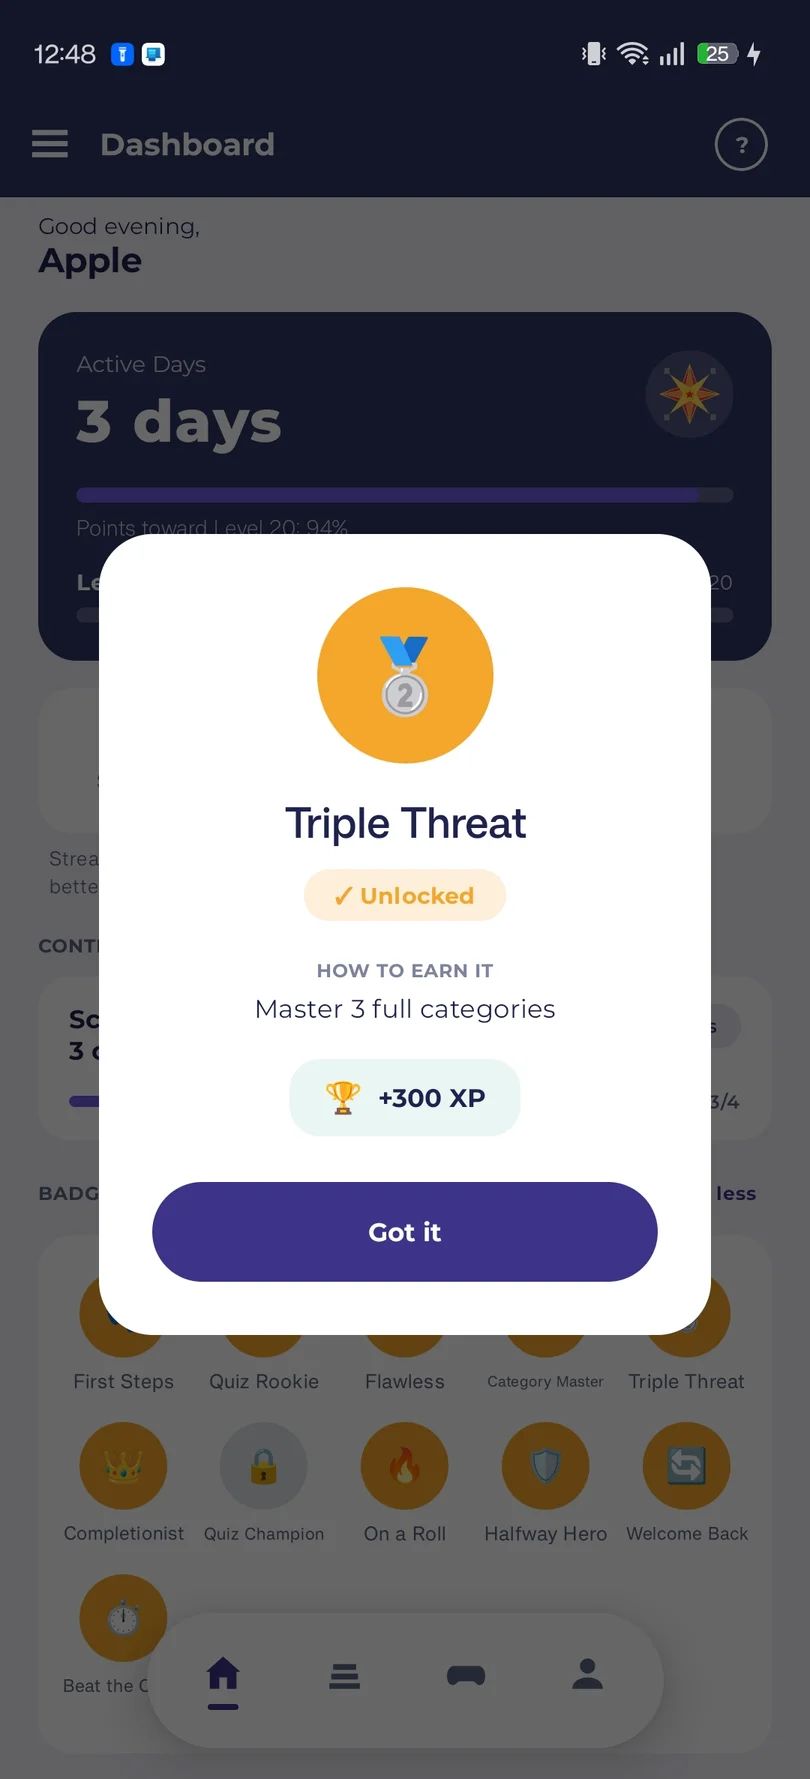
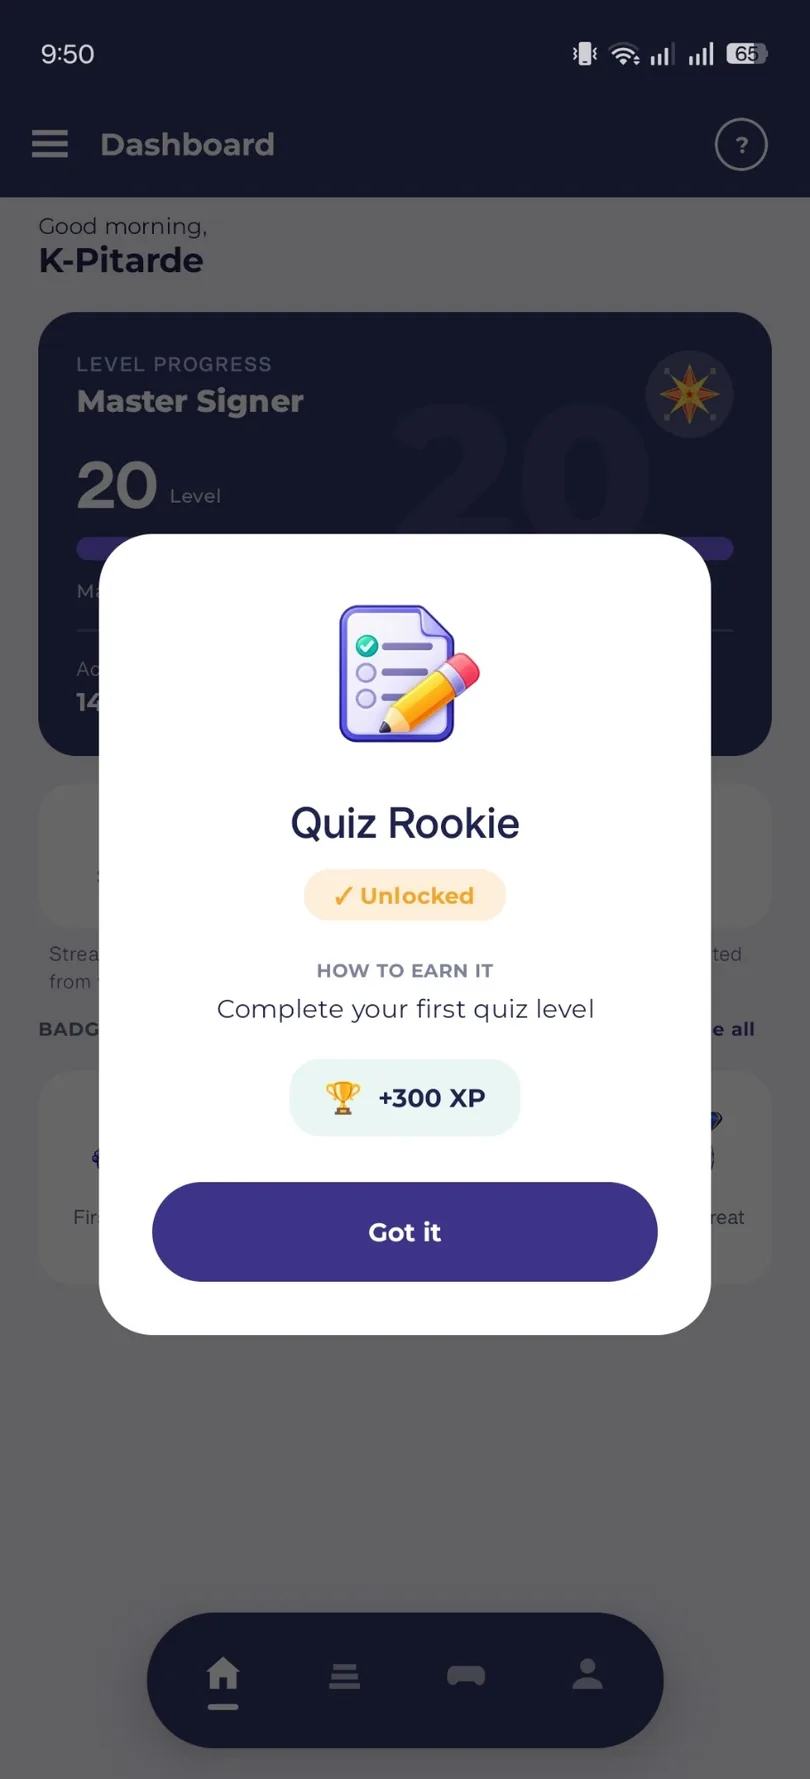
New app screenshots; KinetixFSL with no space everywhere
Dashboard, Modules, Game progress, Earn badges and Community screenshots from the current app. The header and footer name, the link preview picture (and its button, now Download) and the docs drop the space.

diff --git a/index.html b/index.html
@@ -71,7 +71,7 @@
       <div class="container nav-wrap">
         <a class="brand" href="#" aria-label="KinetixFSL home"
           ><img src="assets/logo.svg" width="48" height="48" alt="" /><span
-            >Kinetix<span class="brand-fsl"> FSL</span></span
+            >Kinetix<span class="brand-fsl">FSL</span></span
           ></a
         >
         <button
@@ -244,7 +244,7 @@
                 <circle cx="12" cy="20" r="1" /></svg
               ><span>A little practice.<br /><strong>Anywhere.</strong></span>
             </div>
-            <div class="phone screenshot-phone"><div class="phone-screen"><img src="assets/screenshots/dashboard.webp" width="810" height="1779" alt="KinetixFSL dashboard showing learning progress, active days, and badges." loading="eager" decoding="async" fetchpriority="high" /></div></div>
+            <div class="phone screenshot-phone"><div class="phone-screen"><img src="assets/screenshots/dashboard.webp" width="810" height="1779" alt="KinetixFSL dashboard showing level progress, signs learned, streak risk, and badges." loading="eager" decoding="async" fetchpriority="high" /></div></div>
             <div class="floating-note note-bottom">
               <span class="mini-icon"
                 ><svg
@@ -459,7 +459,7 @@
                 Quizzes, XP, streaks, and badges give you a reason to keep
                 going. Follow your progress, one session at a time.
               </p>
-              <div class="capture-gallery"><figure class="app-capture"><a href="assets/screenshots/quiz.webp" target="_blank" rel="noopener" aria-label="View full-size quiz feedback screenshot (opens a new tab)"><img src="assets/screenshots/quiz.webp" width="810" height="1779" alt="Number-sign quiz with a correct-answer confirmation." loading="lazy" decoding="async" /></a><figcaption>Quiz feedback</figcaption></figure><figure class="app-capture"><a href="assets/screenshots/game-progress.webp" target="_blank" rel="noopener" aria-label="View full-size game progress screenshot (opens a new tab)"><img src="assets/screenshots/game-progress.webp" width="810" height="1779" alt="Sign Quest screen showing XP, levels, and challenge mode." loading="lazy" decoding="async" /></a><figcaption>Game progress</figcaption></figure><figure class="app-capture"><a href="assets/screenshots/badge.webp" target="_blank" rel="noopener" aria-label="View full-size earn badges screenshot (opens a new tab)"><img src="assets/screenshots/badge.webp" width="810" height="1779" alt="Triple Threat achievement unlocked for mastering three categories." loading="lazy" decoding="async" /></a><figcaption>Earn badges</figcaption></figure></div>
+              <div class="capture-gallery"><figure class="app-capture"><a href="assets/screenshots/quiz.webp" target="_blank" rel="noopener" aria-label="View full-size quiz feedback screenshot (opens a new tab)"><img src="assets/screenshots/quiz.webp" width="810" height="1779" alt="Number-sign quiz with a correct-answer confirmation." loading="lazy" decoding="async" /></a><figcaption>Quiz feedback</figcaption></figure><figure class="app-capture"><a href="assets/screenshots/game-progress.webp" target="_blank" rel="noopener" aria-label="View full-size game progress screenshot (opens a new tab)"><img src="assets/screenshots/game-progress.webp" width="810" height="1779" alt="Game screen showing a completed quest, XP earned, challenge mode, and the level journey." loading="lazy" decoding="async" /></a><figcaption>Game progress</figcaption></figure><figure class="app-capture"><a href="assets/screenshots/badge.webp" target="_blank" rel="noopener" aria-label="View full-size earn badges screenshot (opens a new tab)"><img src="assets/screenshots/badge.webp" width="810" height="1779" alt="Quiz Rookie badge unlocked for completing the first quiz level, worth 300 XP." loading="lazy" decoding="async" /></a><figcaption>Earn badges</figcaption></figure></div>
             </article>
             <article class="feature-card community-card">
               <div class="feature-card-icon">
@@ -484,7 +484,7 @@
                 Discover community posts, share sign videos, and connect with
                 other learners when you’re online.
               </p>
-              <figure class="app-capture"><a href="assets/screenshots/community.webp" target="_blank" rel="noopener" aria-label="View full-size learn with the community screenshot (opens a new tab)"><img src="assets/screenshots/community.webp" width="810" height="1779" alt="Community feed with a sign tutorial post and learner interactions." loading="lazy" decoding="async" /></a><figcaption>Learn with the community</figcaption></figure>
+              <figure class="app-capture"><a href="assets/screenshots/community.webp" target="_blank" rel="noopener" aria-label="View full-size learn with the community screenshot (opens a new tab)"><img src="assets/screenshots/community.webp" width="810" height="1779" alt="Community feed with sign tutorial video posts from a moderator and a learner." loading="lazy" decoding="async" /></a><figcaption>Learn with the community</figcaption></figure>
             </article>
           </div>
         </div>
@@ -969,7 +969,7 @@
       <div class="container footer-top">
         <a class="brand" href="index.html"
           ><img src="assets/logo.svg" width="44" height="44" alt="" /><span
-            >Kinetix<span class="brand-fsl"> FSL</span></span
+            >Kinetix<span class="brand-fsl">FSL</span></span
           ></a
         >
         <p>Small steps. Meaningful connections.</p>

diff --git a/privacy.html b/privacy.html
@@ -52,7 +52,7 @@
       <div class="container nav-wrap">
         <a class="brand" href="index.html" aria-label="KinetixFSL home"
           ><img src="assets/logo.svg" width="48" height="48" alt="" /><span
-            >Kinetix<span class="brand-fsl"> FSL</span></span
+            >Kinetix<span class="brand-fsl">FSL</span></span
           ></a
         >
         <button
@@ -186,7 +186,7 @@ You can withdraw at any time by editing the post and unticking the box, by delet
       <div class="container footer-top">
         <a class="brand" href="index.html"
           ><img src="assets/logo.svg" width="44" height="44" alt="" /><span
-            >Kinetix<span class="brand-fsl"> FSL</span></span
+            >Kinetix<span class="brand-fsl">FSL</span></span
           ></a
         >
         <p>Small steps. Meaningful connections.</p>

diff --git a/404.html b/404.html
@@ -44,7 +44,7 @@
       <div class="container nav-wrap">
         <a class="brand" href="index.html" aria-label="KinetixFSL home"
           ><img src="assets/logo.svg" width="48" height="48" alt="" /><span
-            >Kinetix<span class="brand-fsl"> FSL</span></span
+            >Kinetix<span class="brand-fsl">FSL</span></span
           ></a
         >
         <button
@@ -133,7 +133,7 @@
       <div class="container footer-top">
         <a class="brand" href="index.html"
           ><img src="assets/logo.svg" width="44" height="44" alt="" /><span
-            >Kinetix<span class="brand-fsl"> FSL</span></span
+            >Kinetix<span class="brand-fsl">FSL</span></span
           ></a
         >
         <p>Small steps. Meaningful connections.</p>

diff --git a/terms.html b/terms.html
@@ -52,7 +52,7 @@
       <div class="container nav-wrap">
         <a class="brand" href="index.html" aria-label="KinetixFSL home"
           ><img src="assets/logo.svg" width="48" height="48" alt="" /><span
-            >Kinetix<span class="brand-fsl"> FSL</span></span
+            >Kinetix<span class="brand-fsl">FSL</span></span
           ></a
         >
         <button
@@ -144,7 +144,7 @@
       <div class="container footer-top">
         <a class="brand" href="index.html"
           ><img src="assets/logo.svg" width="44" height="44" alt="" /><span
-            >Kinetix<span class="brand-fsl"> FSL</span></span
+            >Kinetix<span class="brand-fsl">FSL</span></span
           ></a
         >
         <p>Small steps. Meaningful connections.</p>

diff --git a/README.md b/README.md
@@ -1,13 +1,13 @@
-# Kinetix FSL website
+# KinetixFSL website
 
-An original, static website for the Kinetix FSL Android app. **The app is in development. Every “Install the app” action opens a Coming soon dialog.** No APK is included or linked. Nothing has been published or changed in DNS.
+An original, static website for the KinetixFSL Android app. **The app is in development. Every “Install the app” action opens a Coming soon dialog.** No APK is included or linked. Nothing has been published or changed in DNS.
 
 ## Open in VS Code
 
 1. Open this entire folder with **File → Open Folder**.
 2. Open **Terminal → New Terminal** and run `npm start` (Node.js 18 or newer). There are no packages to install.
 3. Visit **http://127.0.0.1:4173**. Leave the terminal running while reviewing. Stop with Ctrl+C.
-4. Alternatively, use **Terminal → Run Task → Preview Kinetix FSL**. If you already use VS Code Live Server, opening `index.html` with it also works.
+4. Alternatively, use **Terminal → Run Task → Preview KinetixFSL**. If you already use VS Code Live Server, opening `index.html` with it also works.
 5. Run `npm run check` for local page/asset checks. You can open `index.html` directly, but HTTP preview is preferred for proper 404 behavior.
 
 ## Edit the website

diff --git a/RELEASING.md b/RELEASING.md
@@ -1,4 +1,4 @@
-# Releasing a new version of Kinetix FSL
+# Releasing a new version of KinetixFSL
 
 How the app gets onto kinetixfsl.app as a **release APK**, so people can download it and the app's
 **Settings → Check for new updates** installs each new version. Written 2026-11-01. This file is not published on
@@ -160,7 +160,7 @@ To write the "What's new" yourself, add it (one change per line; leave it out to
 last release):
 
 ```powershell
-gh workflow run publish-release.yml --repo pitarde/KinetixFSL -f test_only=false -f notes="First release of Kinetix FSL"
+gh workflow run publish-release.yml --repo pitarde/KinetixFSL -f test_only=false -f notes="First release of KinetixFSL"
 ```
 
 Or on GitHub: **Actions → Publish release → Run workflow**, **untick Test only**, leave **Bump** on **patch**,

diff --git a/QA_REPORT.md b/QA_REPORT.md
@@ -1,4 +1,4 @@
-# Kinetix FSL website handoff
+# KinetixFSL website handoff
 
 All website source is in `C:\Users\pitar\Documents\kinetix-fsl-website`.
 
